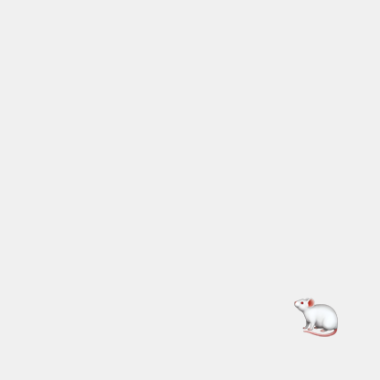
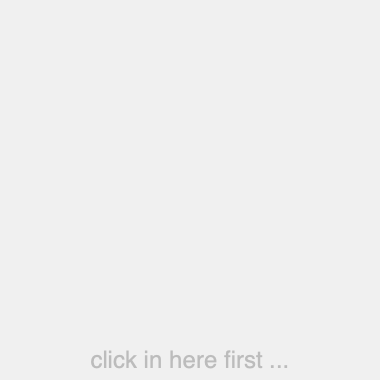
Adds new images

Changed region(s): [[0.2316, 0.9263, 0.6947, 0.9842], [0.7526, 0.7816, 0.8974, 0.8974], [0.7237, 0.9553, 0.7526, 0.9842]]

diff --git a/docs/html/interaction/lecture.html b/docs/html/interaction/lecture.html
@@ -171,7 +171,7 @@ void draw() {
             <div class="unit-30 annotation">
                 <!-- Right hand column for small images, popup sketches and annotations. -->
                 <br />
-                <script>loadSketch("https://jsndyks.github.io/cityBootCamp/p5js/keyBig/", 400, 400, "https://jsndyks.github.io/cityBootCamp/images/interaction/p5js.keyBig.png");</script>
+                <script>loadSketch("https://jsndyks.github.io/cityBootCamp/p5js/keyBig/", 250, 250, "https://jsndyks.github.io/cityBootCamp/images/interaction/p5js.keyBig.png");</script>
                 <p>Key sketch<br />Click the image to activate the sketch.<br/>Then <b>click again</b> inside the popup window. This will get the keyboard focussed on the sketch.<br/>Now you can press keys on the keyboard to see how the value of <b>key</b> changes based upon your interaction with the sketch through the keyboard.</p>
             </div> <!-- end of right column -->
         </div> <!-- End of row -->
@@ -322,7 +322,7 @@ void keyPressed() {
             <div class="unit-30 annotation">
                 <!-- Right hand column for small images, popup sketches and annotations. -->
                 <br />
-                <script>loadSketch("https://jsndyks.github.io/cityBootCamp/p5js/keyPressedRandom/", 400, 400, "https://jsndyks.github.io/cityBootCamp/images/interaction/p5js.keyPressedRand.png");</script>
+                <script>loadSketch("https://jsndyks.github.io/cityBootCamp/p5js/keyPressedRandom/", 250, 250, "https://jsndyks.github.io/cityBootCamp/images/interaction/p5js.keyPressedRand.png");</script>
                 <p>KeyPressed sketch.<br />Click to activate and press keys on the keyboard for endless fun.</p>
             </div> <!-- end of right column -->
         </div> <!-- End of row -->
@@ -375,7 +375,7 @@ void keyPressed() {
             <div class="unit-30 annotation">
                 <!-- Right hand column for small images, popup sketches and annotations. -->
                 <br />
-                <script>loadSketch("https://jsndyks.github.io/cityBootCamp/p5js/keyPressedX/", 400, 400, "https://jsndyks.github.io/cityBootCamp/images/interaction/p5js.keyPressedX.png");</script>
+                <script>loadSketch("https://jsndyks.github.io/cityBootCamp/p5js/keyPressedX/", 250, 250, "https://jsndyks.github.io/cityBootCamp/images/interaction/p5js.keyPressedX.png");</script>
                 <p>KeyPressed sketch with Ordered Characters.<br />Click to activate and press keys on the keyboard.
                     Keep typing keys until you get beyond the right hand side. Then stop.</p>
             </div> <!-- end of right column -->
@@ -429,7 +429,7 @@ void keyPressed() {
             <div class="unit-30 annotation">
                 <!-- Right hand column for small images, popup sketches and annotations. -->
                 <br />
-                <script>loadSketch("https://jsndyks.github.io/cityBootCamp/p5js/keyPressedSpace/", 400, 400, "https://jsndyks.github.io/cityBootCamp/images/interaction/p5js.keyPressedSpace.png");</script>
+                <script>loadSketch("https://jsndyks.github.io/cityBootCamp/p5js/keyPressedSpace/", 250, 250, "https://jsndyks.github.io/cityBootCamp/images/interaction/p5js.keyPressedSpace.png");</script>
                 <p>KeyPressed sketch with Condition to Control Flow.<br />Click to activate, and be sure to make the
                     window big enough to see all of the sketch.
                     Interact with the sketch by pressing keys on the keyboard. Try pressing the space-bar to clear the
@@ -538,7 +538,7 @@ void draw() {
 
             <div class="unit-30 annotation">
                 <!-- Right hand column for small images, popup sketches and annotations. -->
-                <script>loadSketch("https://www.staff.city.ac.uk/~jwo/bootcamp2021/p5js/colourKey", 400, 400, "https://www.staff.city.ac.uk/~jwo/bootcamp2021/lecture04/images/colourKey.png");</script>
+                <script>loadSketch("https://www.staff.city.ac.uk/~jwo/bootcamp2021/p5js/colourKey", 250, 250, "https://www.staff.city.ac.uk/~jwo/bootcamp2021/lecture04/images/colourKey.png");</script>
                 <p>ColourKey sketch.<br />Click to activate and try pressing the 'R', 'G' and 'B' keys).</p>
             </div> <!-- end of right column -->
         </div> <!-- End of row -->
@@ -847,7 +847,7 @@ void mouseClicked() {
             <div class="unit-30 annotation">
                 <!-- Right hand column for small images, popup sketches and annotations. -->
                 <br />
-                <script>loadSketch("https://jsndyks.github.io/cityBootCamp/p5js/keyPressedMouse/", 400, 400, "https://jsndyks.github.io/cityBootCamp/images/interaction/p5js.keyPressedMouse.png");</script>
+                <script>loadSketch("https://jsndyks.github.io/cityBootCamp/p5js/keyPressedMouse/", 250, 250, "https://jsndyks.github.io/cityBootCamp/images/interaction/p5js.keyPressedMouse.png");</script>
                 <p>KeyPressed Move Sketch<br />Click to activate and press keys on the keyboard.
                     <br />Move mouse to position subsequent text.
                     <br />Click to clear the text.
@@ -888,7 +888,7 @@ if (mouseButton == LEFT) {
             <div class="unit-30 annotation">
                 <!-- Right hand column for small images, popup sketches and annotations. -->
                 <br /><br />
-                <script>loadSketch("https://jsndyks.github.io/cityBootCamp/p5js/keyPressedClick/", 400, 400, "https://jsndyks.github.io/cityBootCamp/images/interaction/p5js.keyPressedClick.png");</script>
+                <script>loadSketch("https://jsndyks.github.io/cityBootCamp/p5js/keyPressedClick/", 250, 250, "https://jsndyks.github.io/cityBootCamp/images/interaction/p5js.keyPressedClick.png");</script>
                 <p>KeyPressed Click Sketch<br />Click to activate and press keys on the keyboard.
                     <br />Left click to reposition subsequent text.
                     <br />Right click to clear the text.
@@ -1030,7 +1030,7 @@ void mouseClicked() {
             <div class="unit-30 annotation">
                 <!-- Right hand column for small images, popup sketches and annotations. -->
                 <br />
-                <script>loadSketch("https://jsndyks.github.io/cityBootCamp/p5js/keyPressedMouseState/", 400, 400, "https://jsndyks.github.io/cityBootCamp/images/interaction/p5js.keyPressedMouseState.png");</script>
+                <script>loadSketch("https://jsndyks.github.io/cityBootCamp/p5js/keyPressedMouseState/", 250, 250, "https://jsndyks.github.io/cityBootCamp/images/interaction/p5js.keyPressedMouseState.png");</script>
                 <p>KeyPressed Mouse State<br />Click to activate and press keys on the keyboard.
                     <br />Move the mouse to position subsequent text.
                     <br />Left click to clear the text.
@@ -1075,7 +1075,7 @@ void mouseClicked() {
             <div class="unit-30 annotation">
                 <!-- Right hand column for small images, popup sketches and annotations. -->
                 <br />
-                <script>loadSketch("https://jsndyks.github.io/cityBootCamp/p5js/keyPressedMouseStateExercise/", 400, 400, "https://jsndyks.github.io/cityBootCamp/images/interaction/p5js.keyPressedMouseStateExercise.png");</script>
+                <script>loadSketch("https://jsndyks.github.io/cityBootCamp/p5js/keyPressedMouseStateExercise/", 250, 250, "https://jsndyks.github.io/cityBootCamp/images/interaction/p5js.keyPressedMouseStateExercise.png");</script>
                 <p>KeyPressed Mouse State Exercise<br />Click to activate and press keys on the keyboard.
                     <br />Move mouse to reposition subsequent text.
                     <br />Click to clear the text:<br /> - grey if the mouse is in<br />&nbsp;&nbsp;&nbsp;the left half
@@ -1139,7 +1139,7 @@ void draw(){
             <div class="unit-30 annotation">
                 <!-- Right hand column for small images, popup sketches and annotations. -->
                 <br />
-                <script>loadSketch("https://jsndyks.github.io/cityBootCamp/p5js/clickCount/", 400, 400, "https://jsndyks.github.io/cityBootCamp/images/interaction/p5js.clickCount.png");</script>
+                <script>loadSketch("https://jsndyks.github.io/cityBootCamp/p5js/clickCount/", 250, 250, "https://jsndyks.github.io/cityBootCamp/images/interaction/p5js.clickCount.png");</script>
                 <p>ClickCount Exercise<br />Click to activate and click in the sketch.
                     <br />This sketch achieves some of what we ask for ... but we'd like you to extend it further!
                 </p>
@@ -1306,7 +1306,7 @@ void mouseClicked()
             <div class="unit-30 annotation">
                 <!-- Right hand column for small images, popup sketches and annotations. -->
                 <br />
-                <script>loadSketch("https://jsndyks.github.io/cityBootCamp/p5js/checkButtonV0/", 400, 400, "https://jsndyks.github.io/cityBootCamp/images/interaction/p5js.checkButtonV0.png");</script>
+                <script>loadSketch("https://jsndyks.github.io/cityBootCamp/p5js/checkButtonV0/", 250, 250, "https://jsndyks.github.io/cityBootCamp/images/interaction/p5js.checkButtonV0.png");</script>
                 <p>CheckButton Exercise<br />Click to activate and click in the sketch.
                     <br />A lonely checkButton.<br />It's just a rectangle that changes colour when you interact with it.<br/>Give it a try!
                 </p>
@@ -1334,7 +1334,7 @@ void mouseClicked()
             <div class="unit-30 annotation">
                 <!-- Right hand column for small images, popup sketches and annotations. -->
                 <br />
-                <script>loadSketch("https://jsndyks.github.io/cityBootCamp/p5js/checkButtonCrazy/", 400, 400, "https://jsndyks.github.io/cityBootCamp/images/interaction/p5js.checkButtonCrazy.gif");</script>
+                <script>loadSketch("https://jsndyks.github.io/cityBootCamp/p5js/checkButtonCrazy/", 250, 250, "https://jsndyks.github.io/cityBootCamp/images/interaction/p5js.checkButtonCrazy.gif");</script>
                 <p>CheckButton Example<br />Click to activate and click in the sketch.
                     <br />Here's an example of a dynamic sketch that responds to 🐁 interaction!
                 </p>
@@ -1380,16 +1380,13 @@ void mouseClicked()
             </div> <!-- End of left column -->
 
             <div class="unit-30 annotation">
-                <!-- Right column -->
-                  <div class="unit-30 annotation">
                       <!-- Right hand column for small images, popup sketches and annotations. -->
                       <br />
-                      <script>loadSketch("https://jsndyks.github.io/cityBootCamp/p5js/moveMouse/", 400, 400, "https://jsndyks.github.io/cityBootCamp/images/interaction/p5js.moveMouse.png");</script>
+                      <script>loadSketch("https://jsndyks.github.io/cityBootCamp/p5js/moveMouse/", 250, 250, "https://jsndyks.github.io/cityBootCamp/images/interaction/p5js.moveMouse.png");</script>
                       <p>Mouse Move Example<br />Here's one final sketch that responds to the  🐁.
                         <br/>Try keyboard interaction (<span class="key">t</span>, <span class="key">r</span>, etc.) and mouse clicks.
                       </p>
-                  </div> <!-- end of right column -->
-                  <p style="padding-top:32em">🐁</p>
+                  <p style="padding-top:8em">🐁</p>
                   <!--
                   char mouse = '🐁';
                   let mouse = "🐁";

diff --git a/docs/p5js/moveMouse/moveMouse.js b/docs/p5js/moveMouse/moveMouse.js
@@ -14,25 +14,34 @@ let pig = "🐖";
 let squid = "🦑";
 
 let animal;
+let click = true;
 
 function setup () {
   createCanvas(200, 200);
   fill(32);
   textAlign(CENTER);
-  animal=rabbit;
+  animal=mouse;
 }
 
 function draw () {
   if (drawIt) {
     background(240);
+    fill(32);
     textSize(txtSz);
     text(animal, mouseX, mouseY);
   }
+  if (click) {
+    fill(32,64);
+    textSize(12);
+    text("click in here first ...", width/2, height-10);
+  }
   drawIt = false;
+  noLoop();
 }
 
 function mouseMoved () {
   drawIt=true;
+  loop();
 }
 
 function keyPressed() {
@@ -48,6 +57,7 @@ function keyPressed() {
   if (key == 't') animal = turtle;
   if (key == 'm') animal = mouse;
   drawIt=true;
+  loop();
 }
 
 function mouseClicked () {
@@ -56,5 +66,7 @@ function mouseClicked () {
   } else {
     txtSz = max(txtSz+2, 6);
   }
+  click = false;
   drawIt=true;
+  loop();
 }
